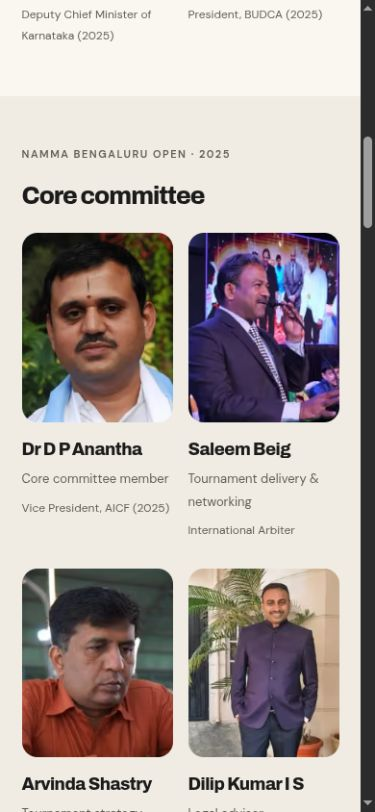
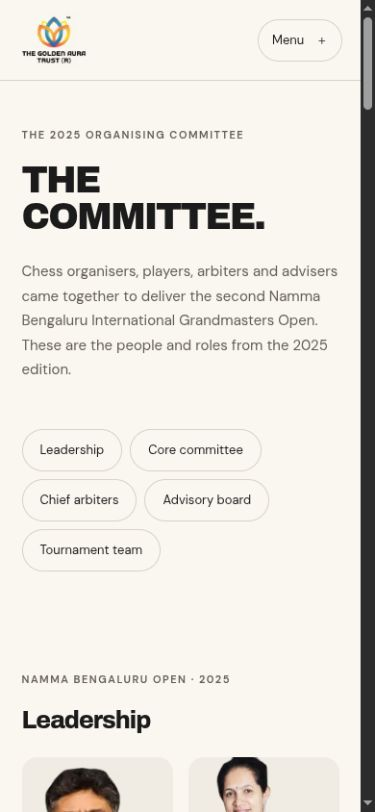
fix: keep committee headings and navigation clear on mobile

diff --git a/src/lib/default-content.ts b/src/lib/default-content.ts
@@ -56,7 +56,7 @@ export const defaultContent: Content = {
     {
       slug: "committee",
       eyebrow: "THE 2025 ORGANISING COMMITTEE",
-      title: "People behind\nthe tournament.",
+      title: "The committee.",
       intro: "Chess organisers, players, arbiters and advisers came together to deliver the second Namma Bengaluru International Grandmasters Open. These are the people and roles from the 2025 edition.",
     },
     {

diff --git a/src/app/globals.css b/src/app/globals.css
@@ -12,8 +12,6 @@
 }
 html {
   scrollbar-gutter: stable;
-  scroll-behavior: smooth;
-  scroll-padding-top: 100px;
 }
 body {
   margin: 0;

diff --git a/README.md b/README.md
@@ -27,10 +27,10 @@ npm start
 2. Set `NEXT_PUBLIC_SANITY_PROJECT_ID` and `NEXT_PUBLIC_SANITY_DATASET` in `.env.local`. Create a temporary write token and set it as `SANITY_WRITE_TOKEN` (server-only).
 3. Run `npm run seed:cms`. The import uploads the selected web images and creates settings, page introductions, events, albums, and affiliations. Existing documents are preserved. Remove/revoke the write token when finished.
 4. Allow the website and local development origins in Sanity's CORS settings, with credentials allowed for the authenticated Studio. Invite the Trust's editors. Visit `/studio` and sign in to Sanity.
-5. Create a Sanity webhook for create/update/delete of published `siteSettings`, `page`, `event`, `album`, and `partner` documents. Use `!(_id in path("drafts.**")) && _type in ["siteSettings", "page", "event", "album", "partner"]` as the filter and `{ "_type": _type }` as the projection. Target `https://TRUST-DOMAIN/api/revalidate` and use the same secret as `SANITY_WEBHOOK_SECRET`.
+5. Create a Sanity webhook for create/update/delete of published `siteSettings`, `page`, `event`, `album`, `partner`, and `committeeMember` documents. Use `!(_id in path("drafts.**")) && _type in ["siteSettings", "page", "event", "album", "partner", "committeeMember"]` as the filter and `{ "_type": _type }` as the projection. Target `https://TRUST-DOMAIN/api/revalidate` and use the same secret as `SANITY_WEBHOOK_SECRET`.
 6. Publish a change and confirm it appears publicly. Content is also refreshed every five minutes. Cached published data can continue serving when a refresh fails; an unavailable first fetch displays the error page.
 
-The editor controls the homepage introduction, focus areas, organisation details, team, page introductions, events, gallery albums, and affiliations. The `2025 organising committee` documents also control the archived committee names, roles, groups, order and portraits. Leave a portrait empty to show initials. Include `committeeMember` in the webhook document-type filter when connecting Sanity. Event URLs should stay stable after publication. Mark past/cancelled events correctly and enable registration only with a confirmed HTTPS link.
+The editor controls the homepage introduction, focus areas, organisation details, team, page introductions, events, gallery albums, and affiliations. The `2025 organising committee` documents also control the archived committee names, roles, groups, order and portraits. Leave a portrait empty to show initials. Event URLs should stay stable after publication. Mark past/cancelled events correctly and enable registration only with a confirmed HTTPS link.
 
 ## Enquiry delivery
 
